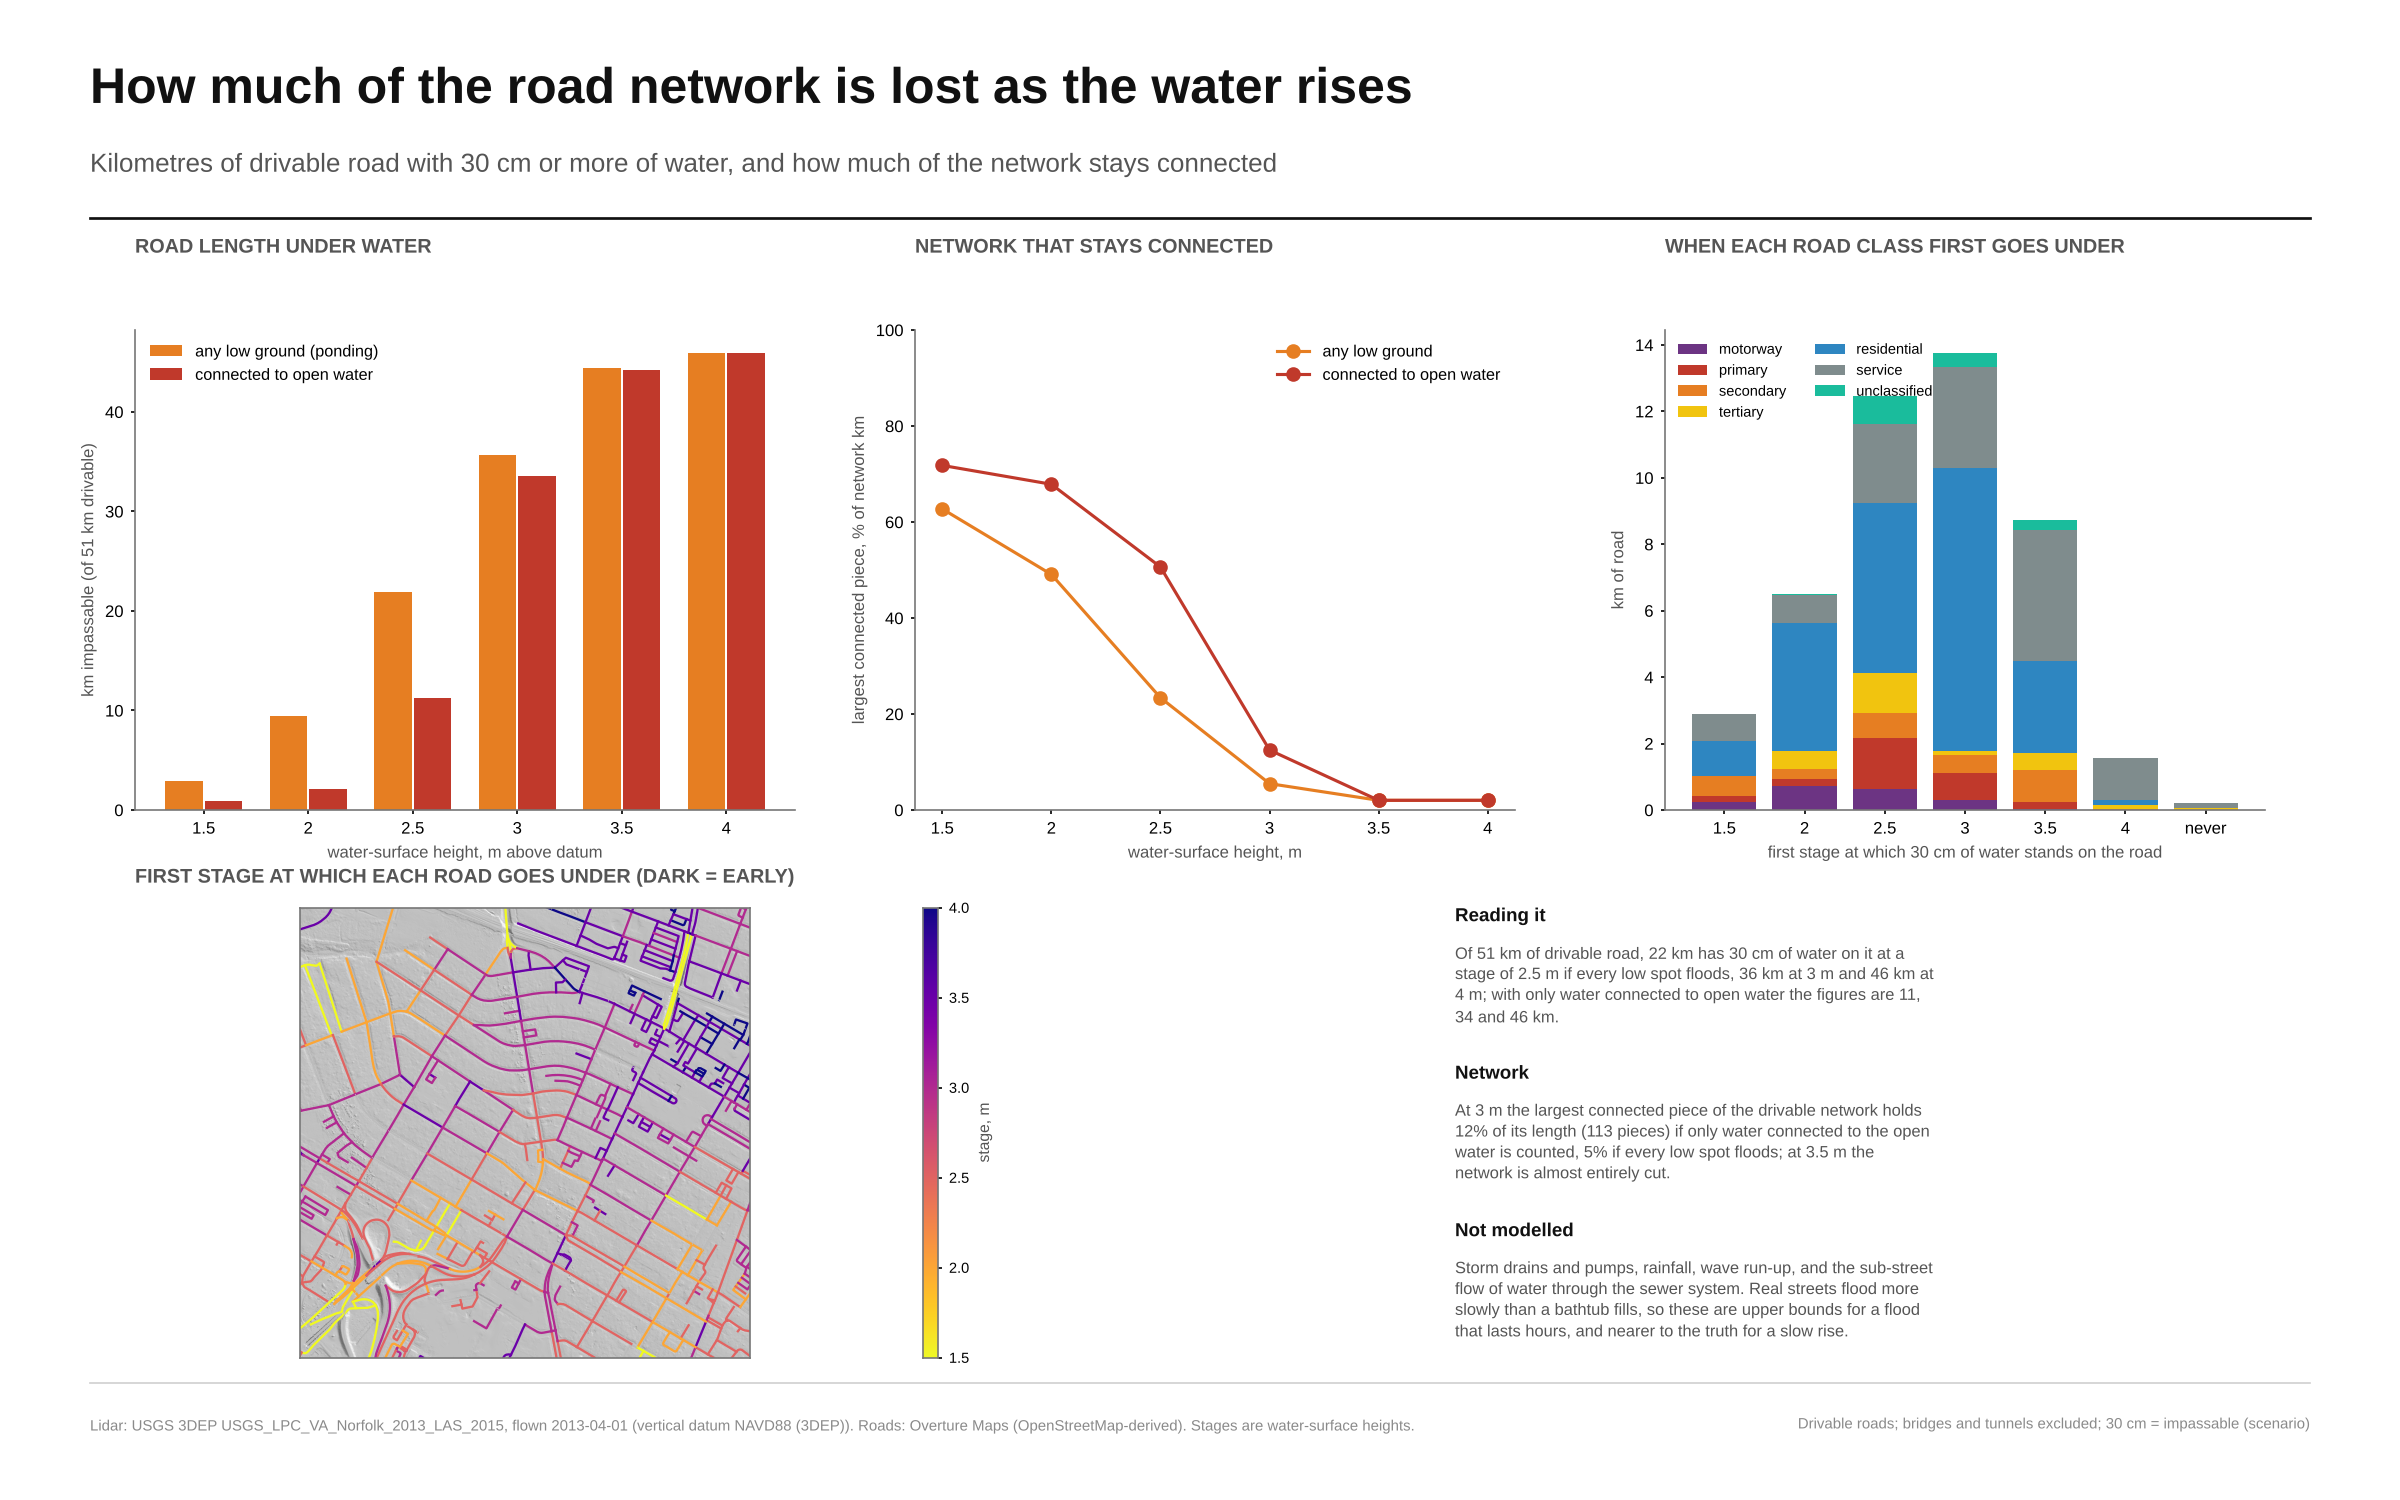
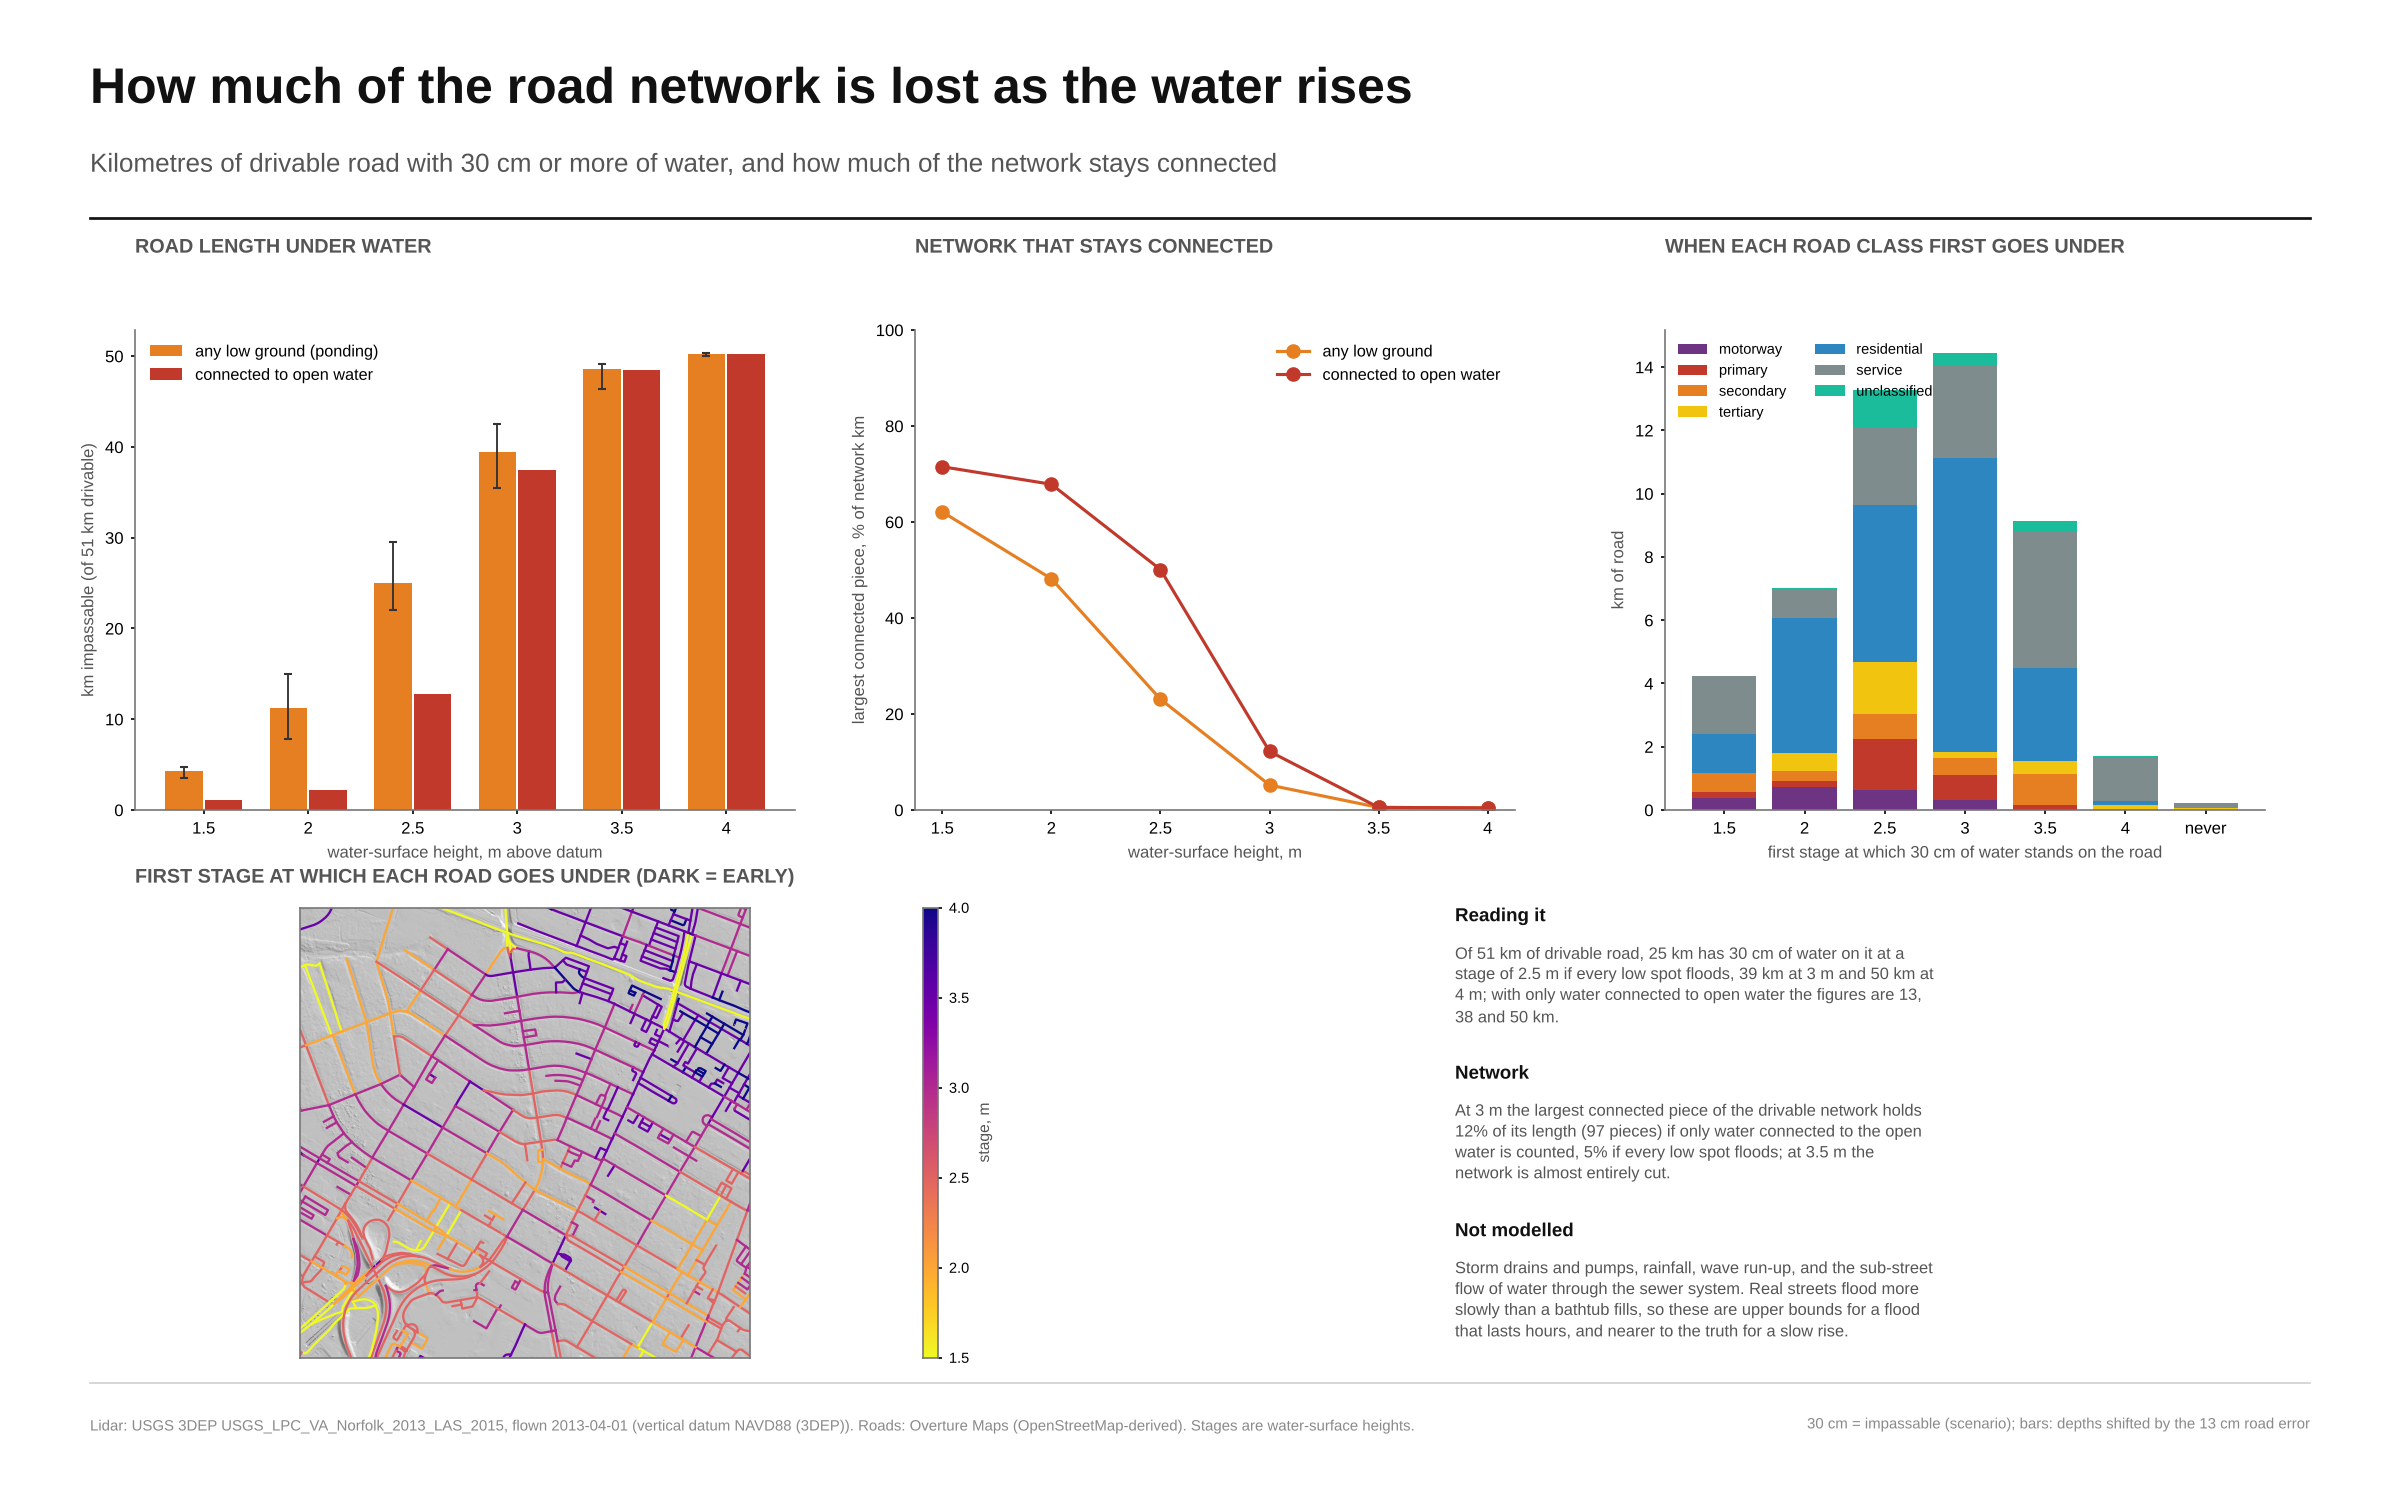
Canopy vs USGS DTM, WorldCover, Esri land cover; flood plates redrawn with road-error bars and new legend
Claude-Session: https://claude.ai/code/session_01SuUE9U8bQRbpBwRn9raWzN

diff --git a/scripts/validate_remote.py b/scripts/validate_remote.py
@@ -1,0 +1,75 @@
+"""Canopy study checked against independent real data (run after scripts/build_canopy.py has been run; reads the lidar again from EPT):
+ - the USGS-processed DTM of the same project (2 m): a second processing of the same points, for the ground surface;
+ - ESA WorldCover 2021 and Esri 10 m land cover 2022 (satellite-derived, independent of lidar): tree cover at 10 m, as agreement of 'canopy' against 'trees'.
+Usage: python scripts/validate_remote.py houston|tahoe"""
+import json
+import sys
+import warnings
+from pathlib import Path
+
+warnings.filterwarnings("ignore")
+ROOT = Path(__file__).resolve().parents[1]
+sys.path.insert(0, str(ROOT / "scripts"))
+sys.path.insert(0, str(ROOT / "src"))
+import numpy as np
+
+import build_canopy as BC
+from lidar3d import forestry as F
+from lidar3d import realref as RR
+from lidar3d import validation as V
+
+DATA = ROOT / "data" / "processed" / "validation"
+
+
+def block(a, k):
+    n = (a.shape[0] // k) * k
+    return a[:n, :n].reshape(n // k, k, n // k, k).mean(axis=(1, 3))
+
+
+def main(slug):
+    DATA.mkdir(parents=True, exist_ok=True)
+    site = dict(F.SITES[slug])
+    half = site["half"]
+    n = int(2 * half)
+    aoi = F.make_aoi(site)
+    W, S, E, N = aoi.bbox_ll
+    x0, y1 = aoi.cx - half, aoi.cy + half
+    R = BC.run_pipeline(F.load_points(site, log=lambda s: None), half, max_h=site["max_height"])
+    dtm, chm = R["dtm"], R["chm"]
+    out = dict(analysis=f"Canopy structure ({slug})", project=site["project"])
+    ref = RR.lidar_product("dtm", site["project"], (W, S, E, N), x0, y1, 1.0, (n, n), aoi.crs)
+    if ref is not None and np.isfinite(ref).any():
+        best = None
+        for flip in (True, False):
+            r = ref[::-1] if flip else ref
+            ok = np.isfinite(r) & np.isfinite(dtm)
+            c = np.corrcoef(r[ok], dtm[ok])[0, 1] if ok.sum() > 100 else -1
+            if best is None or c > best[0]:
+                best = (c, flip, r, ok)
+        c, flip, r, ok = best
+        open_ = ok & (chm < 1.0)
+        out["usgs_dtm"] = dict(V.error_summary((dtm - r)[open_]), grid_flipped=bool(flip), correlation=float(c), n_cells_open_ground=int(open_.sum()), under_canopy=V.error_summary((dtm - r)[ok & (chm >= 2)]),
+                               note="USGS's own DTM of the same survey, 2 m resampled to 1 m: a second processing of the same points, so it checks the ground model and not the flight")
+    else:
+        out["usgs_dtm"] = dict(status="no USGS DTM product found for this project over the window")
+    cover = block((chm >= 2.0).astype("float32")[::-1] if out.get("usgs_dtm", {}).get("grid_flipped", True) else (chm >= 2.0).astype("float32"), 10)
+    m10 = cover.shape[0]
+    args = (x0, y1, 10.0, (m10, m10), aoi.crs)
+    for key, fn, tree, nm in (("worldcover_2021", lambda: RR.worldcover((W, S, E, N), *args), 10, "ESA WorldCover 2021 (class tree cover)"), ("esri_landcover_2022", lambda: RR.esri_lulc((W, S, E, N), *args), 2, "Esri 10 m land cover 2022 (class trees)")):
+        try:
+            lc = fn()
+            if lc is None:
+                raise RuntimeError("no tiles")
+            valid = np.isfinite(lc)
+            reft = np.where(valid, lc == tree, False)
+            pred = cover >= 0.5
+            out[key] = dict(reference=nm, cells_10m=int(valid.sum()), canopy_cover_lidar=float(cover[valid].mean()), tree_share_reference=float(reft[valid].mean()), agreement=V.binary_agreement(pred, reft, valid),
+                            note="our canopy = cells whose 1 m CHM is at least 2 m, aggregated to 10 m and called tree when at least half the cell is canopy; satellite land cover has its own error of roughly 10 percent")
+        except Exception as e:
+            out[key] = dict(status=f"not run: {str(e)[:100]}")
+    (DATA / f"canopy_{slug}_remote.json").write_text(json.dumps(out, indent=1, default=float))
+    print(json.dumps(out, indent=1, default=float)[:3500])
+
+
+if __name__ == "__main__":
+    main(sys.argv[1])

diff --git a/src/lidar3d/figures_flood.py b/src/lidar3d/figures_flood.py
@@ -165,7 +165,7 @@ def fig_stages(st, F):
         net = st["road_vulnerability"][f"{lv:g}"]["connected_to_tidal_water"]
         pl.text(x0, y0 - 0.06, f"{net['km_impassable']:.1f} km impassable;  {st['stages'][f'{lv:g}']['raw']['connected_ha']:.0f} ha flooded", fontsize=7.8, color=MUTED, va="top")
     leg = [Line2D([], [], color=RED, lw=2, label="impassable (30 cm or more), connected"), Line2D([], [], color=ORANGE, lw=2, label="would pond (30 cm or more), not connected"), Line2D([], [], color=GREEN, lw=2, label="clear"),
-           Line2D([], [], color=GREY, lw=2, label="bridge, tunnel or overpass")]
+           Line2D([], [], color=GREY, lw=2, label="bridge deck above the water, or tunnel (not assessed)")]
     lax = pl.ax(10.9, 6.5, 4.4, 1.4); lax.axis("off"); lax.legend(handles=leg, loc="upper left", fontsize=8, frameon=False, labelspacing=0.7)
     _vcbar(pl, 10.9, 4.1, 2.1, "Blues", 0, 2.5, "water depth, m")
     rows = [("Reading the maps", "A stage is the height of the water surface above the vertical datum. Terrain below it that is connected to the open water seen in the lidar (areas with no returns, in the south-west of the window) floods; other low ground (orange roads) only holds rain. Water arriving from outside the window by other routes is not modelled, and the open water here is a set of ponds and basins, not a mapped tidal creek.")]
@@ -175,14 +175,20 @@ def fig_stages(st, F):
 
 def fig_vulnerability(st, F):
     pl = Plate("How much of the road network is lost as the water rises", "Kilometres of drivable road with 30 cm or more of water, and how much of the network stays connected",
-               _src(st), "Drivable roads; bridges and tunnels excluded; 30 cm = impassable (scenario)")
+               _src(st), "30 cm = impassable (scenario); bars: depths shifted by the 13 cm road error")
     rv = st["road_vulnerability"]
     tot = st["roads"]["drivable_km"]
     x = np.arange(len(STAGES))
     a = pl.ax(0.9, 4.6, 4.4, 3.2)
     low = [rv[f"{lv:g}"]["any_low_ground"]["km_impassable"] for lv in STAGES]
     con = [rv[f"{lv:g}"]["connected_to_tidal_water"]["km_impassable"] for lv in STAGES]
-    a.bar(x - 0.19, low, 0.36, color=ORANGE, label="any low ground (ponding)")
+    S_ = F["S"]
+    DZ = 0.13  # lidar road-surface rms error (held-out road returns), applied as a shift of every depth
+    def km_at(lv, dz):
+        d = S_[f"max_depth_{lv:g}"].to_numpy()
+        return float(S_.length_m[(d + dz) >= 0.3].sum() / 1000)
+    err = np.array([[km_at(lv, 0) - km_at(lv, -DZ) for lv in STAGES], [km_at(lv, DZ) - km_at(lv, 0) for lv in STAGES]])
+    a.bar(x - 0.19, low, 0.36, color=ORANGE, label="any low ground (ponding)", yerr=err, error_kw=dict(ecolor="#333", elinewidth=0.9, capsize=2))
     a.bar(x + 0.19, con, 0.36, color=RED, label="connected to open water")
     a.set_xticks(x); a.set_xticklabels([f"{lv:g}" for lv in STAGES]); a.set_xlabel("water-surface height, m above datum", fontsize=8, color=MUTED); a.set_ylabel(f"km impassable (of {tot:.0f} km drivable)", fontsize=8, color=MUTED)
     a.tick_params(labelsize=8, length=2); a.spines[["top", "right"]].set_visible(False); a.legend(fontsize=7.8, frameon=False, loc="upper left")
